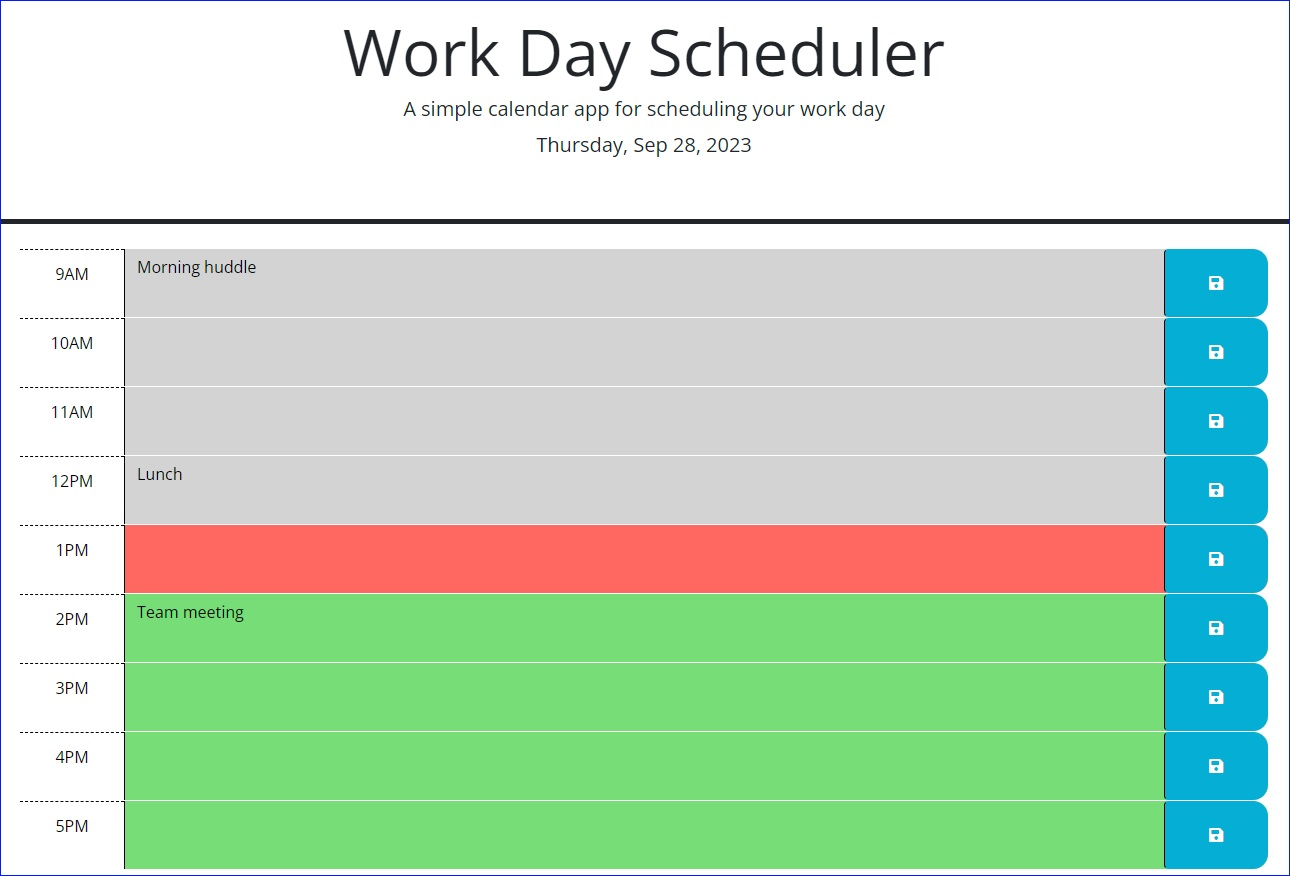
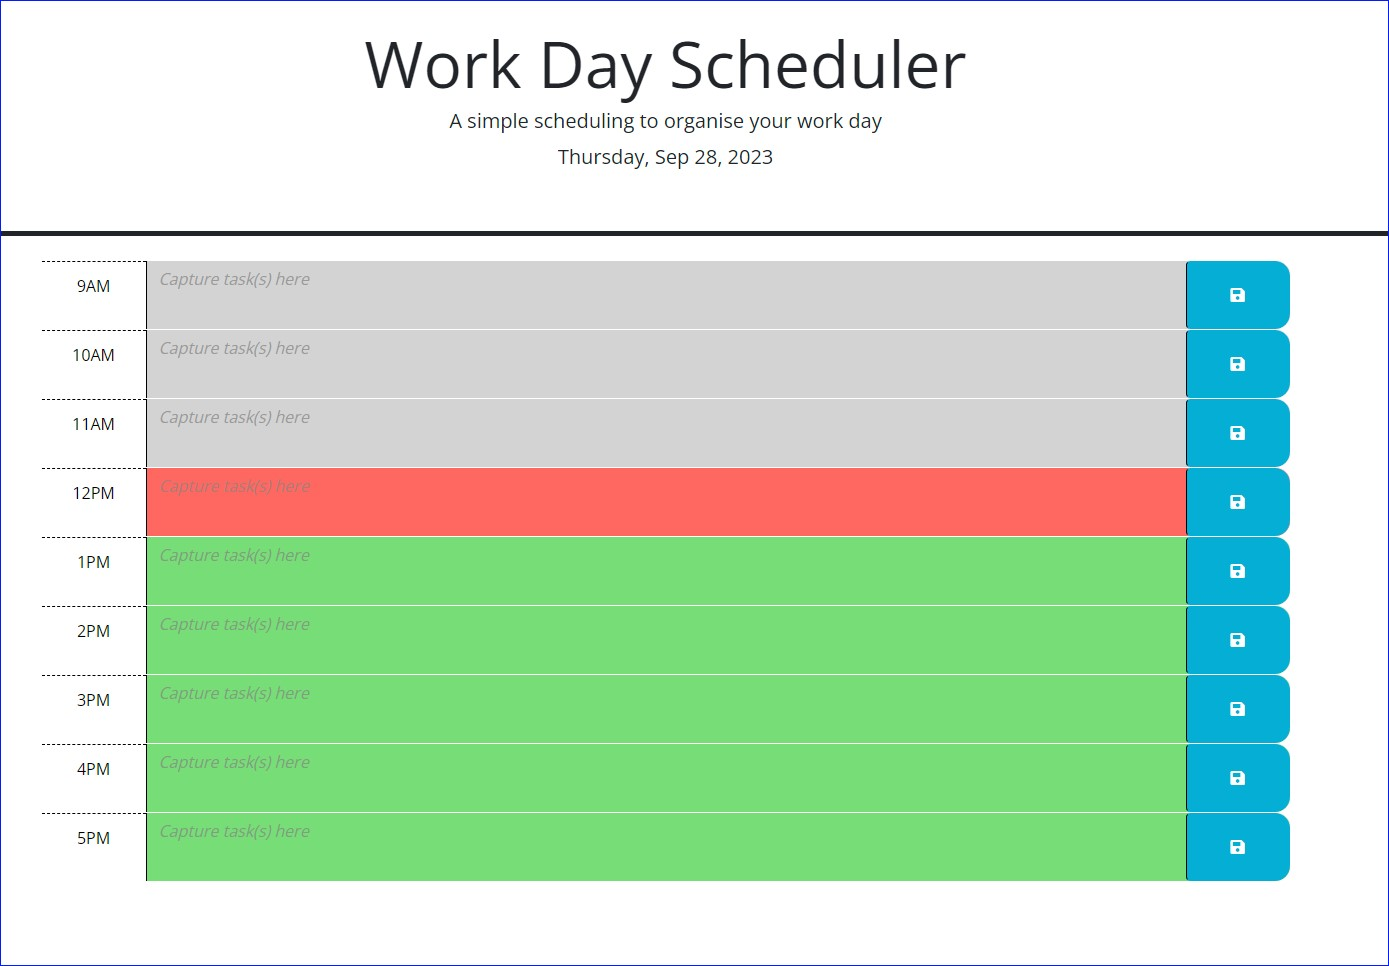
Fix typo

diff --git a/index.html b/index.html
@@ -27,7 +27,7 @@
   <body>
     <header class="p-5 mb-4 border-5 border-bottom border-dark text-center">
       <h1 class="display-3">Work Day Scheduler</h1>
-      <p class="lead">A simple scheduling to organise your work day</p>
+      <p class="lead">A simple scheduler to organise your work day</p>
       <!-- paragraph to insert current date and time-->
       <p id="currentDay" class="lead"></p>
       <!-- <p id="currentTime" class="lead"></p> -->
